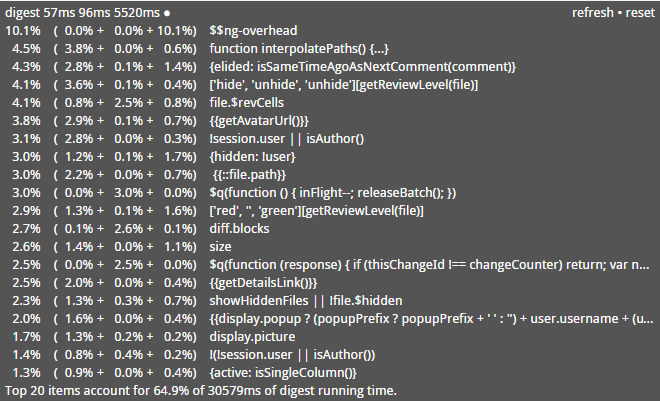
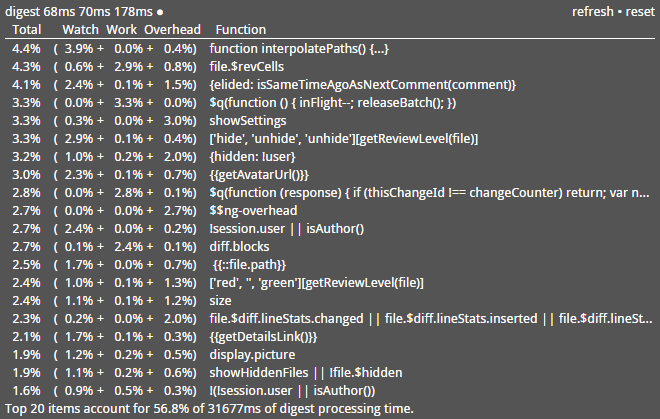
Update screenshot.

Changed region(s): [[0.0, 0.0, 1.0, 1.0], [0.8485, 0.0, 1.0, 0.0599]]

diff --git a/README.md b/README.md
@@ -17,7 +17,7 @@ The Digest HUD will have a performance impact on your code and there's no way to
 
 The numbers show the minimum, median, and maximum running time of the last 25 (or `numDigestStats`) digests.  At the end of the line a dot blinks on or off every time a digest runs.  Together this gives you a quick idea of how hard your app's digest cycle is working.
 
-You can click on the summary to show a snapshot of more detailed stats:
+You can click on the summary to show a snapshot of more detailed stats (this example is taken from [Reviewable](https://reviewable.io):
 
 ![collapsed Digest HUD](https://raw.githubusercontent.com/pkaminski/digest-hud/master/readme_images/expanded.png)
 
